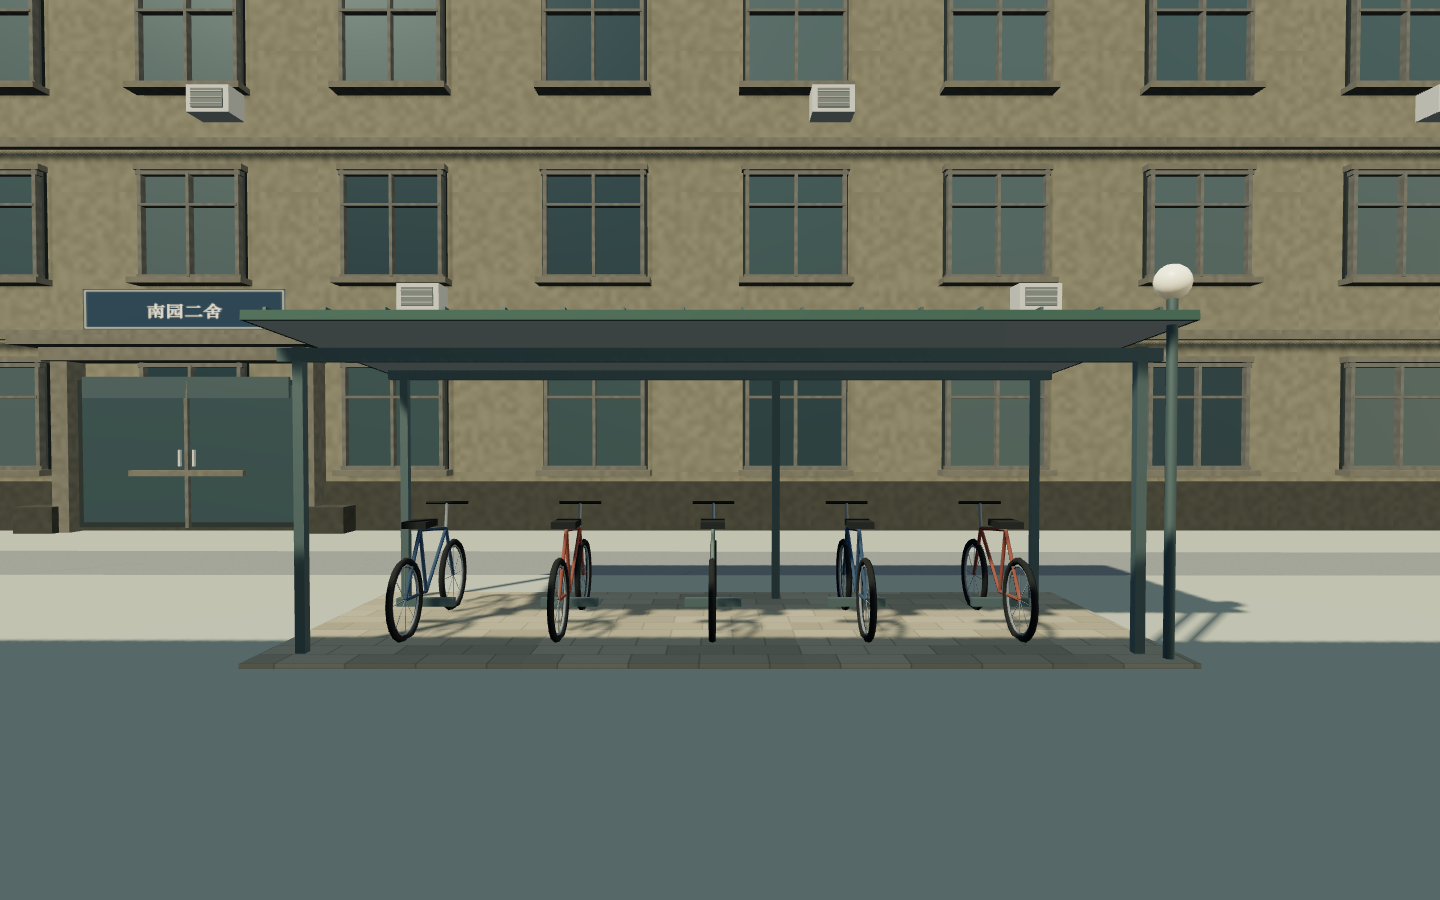
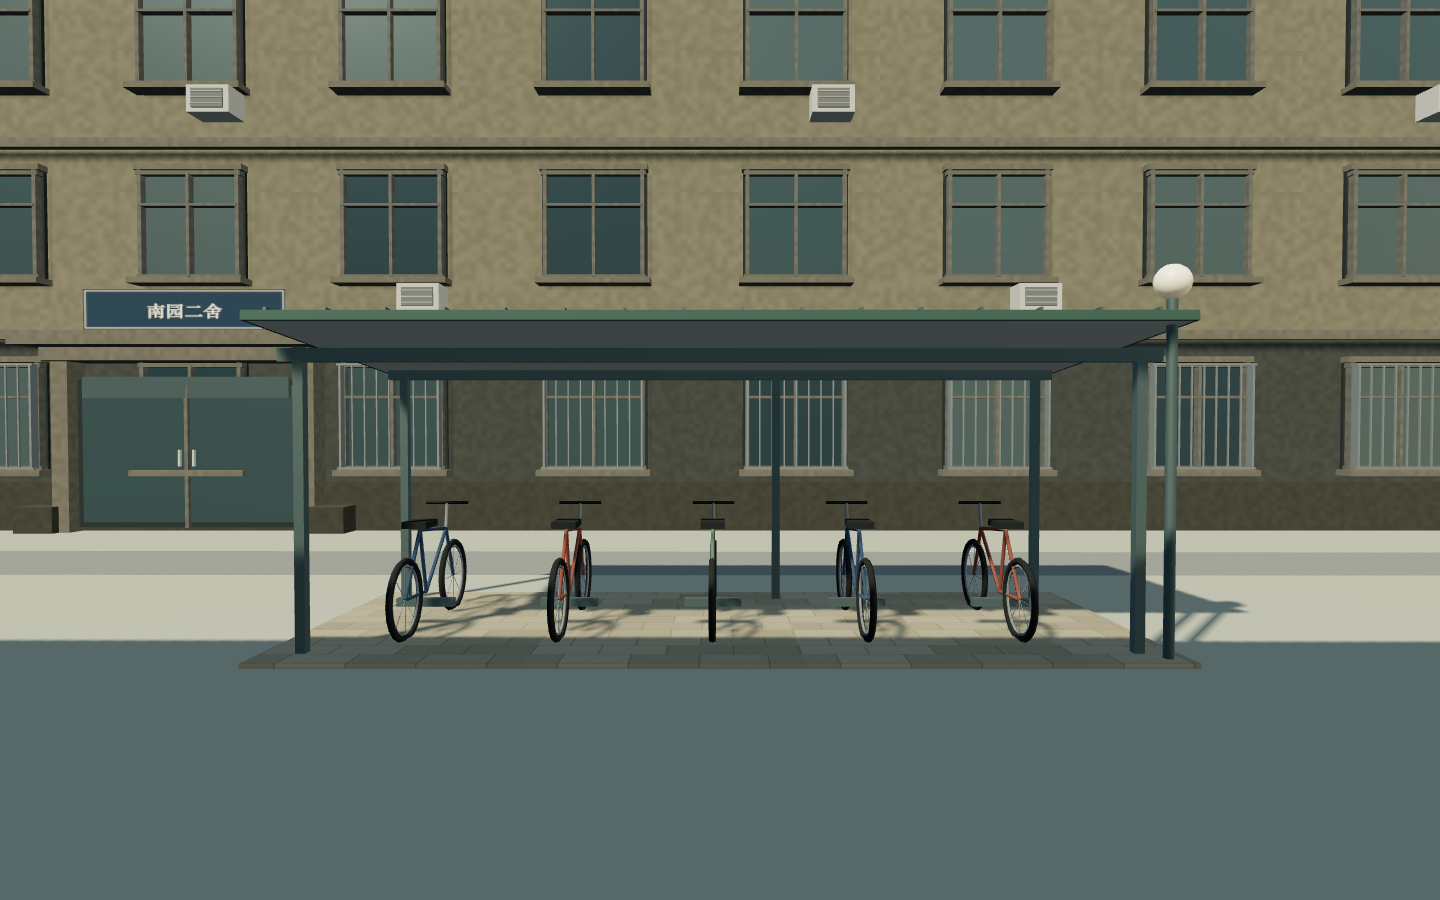
Refine Nanyuan dormitory facade and walkable road margins locally

Changed region(s): [[0.1562, 0.3733, 1.0, 0.56], [0.0, 0.3733, 0.0312, 0.56], [0.0625, 0.4044, 0.0938, 0.4356]]

diff --git a/src/world/south-road-details.ts b/src/world/south-road-details.ts
@@ -1,0 +1,56 @@
+import * as T from 'three';
+import { Builder } from './geometry.ts';
+import { insidePolygon, type CampusMap, type MapPolygon } from './campus-map.ts';
+import type { Materials } from './materials.ts';
+
+type Edge = { x: number; z: number; nx: number; nz: number; length: number; angle: number };
+
+/** Low kerbs and yellow margins seen in official VR gl-1-06 / gl-1-17.
+ * Fit them to existing road/lawn boundaries; widths and heights are estimates.
+ * Do not turn schematic white gaps into invented metre-wide pavements. */
+export function createSouthRoadDetails(map: CampusMap, mats: Materials) {
+  const b = new Builder(), edges: Edge[] = [];
+  const bounded = (polygons: MapPolygon[]) => polygons.map(p => ({
+    p, minX: Math.min(...p.points.map(q => q[0])), maxX: Math.max(...p.points.map(q => q[0])),
+    minZ: Math.min(...p.points.map(q => q[1])), maxZ: Math.max(...p.points.map(q => q[1])),
+  }));
+  const roadBounds = bounded(map.roads), lawnBounds = bounded(map.lawns);
+  const buildingBounds = bounded(map.features.filter(f => f.tags.building));
+  const within = (x: number, z: number, list: ReturnType<typeof bounded>) => list.some(a =>
+    x >= a.minX && x <= a.maxX && z >= a.minZ && z <= a.maxZ && insidePolygon(x, z, a.p));
+  const onRoad = (x: number, z: number) => within(x, z, roadBounds);
+  const marking = new T.MeshStandardMaterial({name:'nanyuan-edge-paint',color:0xcdb15b,roughness:.94,polygonOffset:true,polygonOffsetFactor:-2,polygonOffsetUnits:-2});
+
+  for (const road of map.roads) for (const ring of [road.points, ...(road.holes ?? [])]) {
+    for (let i = 0; i < ring.length; i++) {
+      const [ax, az] = ring[i], [bx, bz] = ring[(i + 1) % ring.length];
+      const length = Math.hypot(bx - ax, bz - az);
+      if (length < 1.5) continue;
+      const pieces = Math.ceil(length / 2), span = length / pieces;
+      for (let piece = 0; piece < pieces; piece++) {
+        const t = (piece + .5) / pieces, x = ax + (bx - ax) * t, z = az + (bz - az) * t;
+        if (x < -115 || x > 95 || z < 400 || z > 675) continue;
+        let nx = -(bz - az) / length, nz = (bx - ax) / length;
+        if (!onRoad(x + nx * .3, z + nz * .3)) { nx = -nx; nz = -nz; }
+        // Check both ends as well as the centre. Internal seams and junctions
+        // have road on both sides and must remain completely open.
+        const clear = [-.43, 0, .43].every(offset => {
+          const px = x + (bx - ax) / length * span * offset, pz = z + (bz - az) / length * span * offset;
+          return onRoad(px + nx * .3, pz + nz * .3) && !onRoad(px - nx * .3, pz - nz * .3)
+            && [.6, 1, 1.5, 2].some(d => within(px - nx * d, pz - nz * d, lawnBounds))
+            && !within(px - nx * .2, pz - nz * .2, buildingBounds);
+        });
+        if (!clear) continue;
+        const angle = Math.atan2(bx - ax, bz - az);
+        b.box(.18, .14, span + .006, x - nx * .095, .07, z - nz * .095, mats.stone, true, angle);
+        b.box(.10, .004, span - .02, x + nx * .30, .040, z + nz * .30, marking, false, angle);
+        edges.push({x, z, nx, nz, length:span, angle});
+      }
+    }
+  }
+  const group = b.finish('Nanyuan road kerbs and edge markings', 100);
+  group.userData.edges = edges;
+  group.userData.source = 'official VR gl-1-06 / gl-1-17; plan-fitted approximate road/lawn margins';
+  for (const mesh of group.children) mesh.castShadow = false;
+  return {group, solids:b.solids, edges};
+}

diff --git a/src/world/ordinary-buildings.ts b/src/world/ordinary-buildings.ts
@@ -27,6 +27,7 @@ export function buildOrdinaryBuildings(features: MapFeature[], mats: Materials, 
   const glass = [0x4d6362,0x5d706d,0x3d5357].map((color,i)=>new T.MeshStandardMaterial({name:i===1?'window-glass-warm':'window-glass-cool',color,roughness:.32,metalness:.32,envMapIntensity:.7}));
   const utility = new T.MeshStandardMaterial({name:'utility-casing',color:0xbdbfb1,roughness:.85});
   const louvre = new T.MeshStandardMaterial({name:'utility-grille',color:0x727a73,roughness:.78});
+  const windowGuard = new T.MeshStandardMaterial({name:'window-guard',color:0x87908b,roughness:.65,metalness:.35});
   const archShape=(w:number,h:number)=>{const s=new T.Shape();s.moveTo(-w/2,-h/2);s.lineTo(w/2,-h/2);s.lineTo(w/2,h/2-w/2);s.absarc(0,h/2-w/2,w/2,0,Math.PI,false);s.closePath();return s;};
   const paints = new Map<string,T.MeshStandardMaterial>();
   const paint = (color:number,brick=false) => {
@@ -82,6 +83,9 @@ export function buildOrdinaryBuildings(features: MapFeature[], mats: Materials, 
       };
       if(!ri)edges.push({len,x:mx,z:mz,angle,nx,nz});
       put(b,0,.42,.025,len,.84,.12,plinth);
+      // A thin finish stays behind the existing reveals and glass, so the
+      // darker storey cannot cover windows or alter the physical footprint.
+      if(profile.groundWall!==undefined)put(b,0,floorHeight*.525,.006,len,floorHeight*1.05,.018,paint(profile.groundWall));
       put(b,0,height-.12,.02,len,.22,.30,stone);
       put(b,0,height+.18,0,len,.30,.20,wall);
       if(profile.bands)for(let floor=1;floor<profile.levels;floor++)put(b,0,floor*floorHeight+.1,.04,len,.16,.22,stone);
@@ -108,6 +112,16 @@ export function buildOrdinaryBuildings(features: MapFeature[], mats: Materials, 
         if(w>2.2)for(const side of[-1,1])put(detail,u+side*w*.26,y,.12,.04,h,.13,frame);
         put(detail,u,y-h/2-.08,.14,w+.28,.10,.40,stone);
         put(detail,u,y+h/2+.1,.09,w+.18,.10,.23,stone);
+        // Leave the central entry bay clear; only the confirmed ground-floor
+        // treatment is applied, rather than inventing cages on every storey.
+        if(profile.groundWindowGuards&&floor===0&&Math.abs(u)>2.6){
+          for(const side of[-1,1]){
+            put(detail,u,y+side*h/2,.32,w+.1,.035,.055,windowGuard);
+            put(detail,u+side*w/2,y,.20,.035,h,.28,windowGuard);
+          }
+          const bars=Math.ceil(w/.22);
+          for(let q=1;q<bars;q++)put(detail,u+w*(q/bars-.5),y,.32,.022,h,.03,windowGuard);
+        }
         if(profile.ac&&(j+floor)%3===0&&floor>0){
           put(detail,u+w*.35,y-h*.73,.33,.70,.45,.45,utility);
           put(detail,u+w*.35,y-h*.73,.57,.52,.31,.025,louvre);

diff --git a/src/world/building-profiles.ts b/src/world/building-profiles.ts
@@ -6,6 +6,8 @@ export type FacadeProfile = {
   roof: 'flat' | 'hip' | 'heritage';
   bays: number; windowWidth: number; windowHeight: number;
   ac?: boolean; bands?: boolean; balcony?: boolean; dome?: boolean;
+  groundWall?: number;
+  groundWindowGuards?: boolean;
   arched?: boolean;
   portal?: 'stone' | 'glass' | 'columns';
   source: string; observations: string;
@@ -70,7 +72,7 @@ export const buildingProfiles: Record<string, FacadeProfile> = {
   'plan-88': profile(dorm,'gl-1-06 / gl-1-24','pale dormitory block with utility units and window bars'),
   'plan-90': profile(dorm,'gl-1-06 / gl-1-24','cream residential grid, small air-conditioning units'),
   'plan-92': profile(dorm,'gl-1-24','south-campus residential row visible from above'),
-  'plan-94': profile(dorm,'gl-1-17','cream six-storey dormitory, grey ground-floor band',{wall:0xc7c3ad}),
+  'plan-94': profile(dorm,'gl-1-17 / gl-1-06','cream six-storey dormitory, tall grey ground-floor band; visible window guards inform partial ground-floor detail, hidden elevations remain approximate',{wall:0xc7c3ad,groundWall:0x777f7d,groundWindowGuards:true}),
   'plan-95': profile(dorm,'gl-1-06','dormitory courtyard elevation, pale paint and metal window frames'),
   'plan-97': profile(dorm,'gl-1-24','western dormitory row, regular pale window grid'),
   'plan-99': profile(dorm,'gl-1-06 / gl-1-24','courtyard dormitory with service units and flat roof'),

diff --git a/src/world/world.ts b/src/world/world.ts
@@ -15,6 +15,7 @@ import { createCampusSign, photoSpot } from './campus-sign.ts';
 import { fireTowerFootprint } from './surroundings.ts';
 import { createAccessControls, campusEntrances } from './access-controls.ts';
 import { createDormitoryAmenities } from './dormitory-amenities.ts';
+import { createSouthRoadDetails } from './south-road-details.ts';
 export { bounds } from './campus-map.ts';
 
 export const maxFlightAltitude = 180;
@@ -112,6 +113,7 @@ export async function createWorld(scene: T.Scene, mats: Materials, quality = 'me
   b.box(12, .06, 5, 0, .025, 16.4, mats.path);
   b.box(8.5, .06, 6.5, -31, .025, 99, mats.path);
   const ground = b.finish('registered campus roads lawns and playing fields'); root.add(ground); solids.push(...b.solids);
+  const southRoads = createSouthRoadDetails(map, mats); root.add(southRoads.group); solids.push(...southRoads.solids);
   const gateFont = await new FontLoader().loadAsync(`${import.meta.env.BASE_URL}assets/fonts/gate-lettering.typeface.json`);
   const priority = createPriorityDetails(map, mats, gateFont); root.add(priority.group); solids.push(...priority.solids);
   const access=createAccessControls(mats);root.add(access.group);solids.push(...access.solids);

diff --git a/README.md b/README.md
@@ -31,7 +31,7 @@
 - 在苏浙运动场踢球练习：靠近足球轻踢或加力射门，进球计数，也可一键把球送回中场。
 - 导入喜欢的本地音乐，在校园里随机轮播。
 
-本地 v0.10 继续优化校园建筑的加载与绘制，给模拟闸机补充“请靠近／请通行”屏幕，并在南园二舍、三舍、四舍及陶园附近增加四处自行车棚、停放的自行车和照明。建筑外观、树木、校园出入口与宿舍门牌延续上一版；北大楼庭院的六片草坪台阶可以实际走上、走下。
+本地 v0.11 继续完善南园二舍底层的灰色分区与部分首层窗格，为南园北段道路增加低路缘和黄色边线。保留四处自行车棚、停放的自行车和照明，以及模拟闸机的“请靠近／请通行”反馈；北大楼庭院的六片草坪台阶可以实际走上、走下。
 
 当前版本包含南园、北园的整体粗模，重点制作北大楼及周边路线，补充了紫峰大厦。普通建筑、部分尺寸和植被位置仍是依据资料的近似重建，欢迎熟悉校园的同学指出不准确的地方。
 
@@ -95,6 +95,14 @@
 ![南园二舍入口](docs/images/nanyuan-dormitory-2.png)
 
 南园宿舍逐栋补充了入口、门牌、窗格和空调等细节，可通过地图列表前往。立面及设备位置仍为参考资料下的近似重建。
+
+![南园二舍底层与窗格同机位对照](docs/images/nanyuan-dormitory-comparison.jpg)
+
+左为 v0.10，右为 v0.11。参考官方 VR 继续调整底层分色，补充部分首层窗格，保留中央入口；不代表每扇窗都已按实物复刻。
+
+![南园北段的路缘和黄色边线](docs/images/nanyuan-road.png)
+
+路缘沿现有道路与草地相邻的边界布置，路口保持通畅。高度和宽度仍为近似，人物可以直接跨过低路缘。
 
 ![南园二舍附近的自行车棚](docs/images/dormitory-cycle-shelter.png)
 

diff --git a/docs/asset_sources.md b/docs/asset_sources.md
@@ -68,3 +68,9 @@
 
 - 绿色自行车棚、浅色棚底、停放的自行车及灯具由项目几何生成；形态参考官方 VR `gl-1-06` 的后、左、右方向。四处位置根据当前平面图空地和宿舍入口拟合，尺寸、车位数量与灯具为游玩中的近似布置，不代表实测设施清单。保留原始参考图在本机忽略目录，未作为纹理使用。
 - 门禁“校园通行／请靠近／请通行”画面用 Canvas 和系统字体生成，两种状态材质共享；仍为按角色距离切换的模拟反馈，不接入摄像头。
+
+## 本地 v0.11 南园立面与路缘
+
+- 南园二舍底层灰色分区依据官方 VR `gl-1-17` 可辨认的外墙分色；部分首层窗格参考 `gl-1-17` 和 `gl-1-06` 的宿舍窗格形式，中央入口留空。楼层高度、色值与遮挡立面仍为近似，未用照片作纹理。
+- 南园北门—喷泉—二舍一带的低路缘与黄色边线参考上述视点，沿当前道路和草地相邻的描图边界拟合；通过三点内外侧判断避开道路内部接缝和路口。0.14米路缘、0.10米线宽均为模型近似值，示意图描边空隙没有被当成实测人行道宽度。
+- 新增几何与对照截图来自本项目，原始参考图仍留在本机忽略目录。
